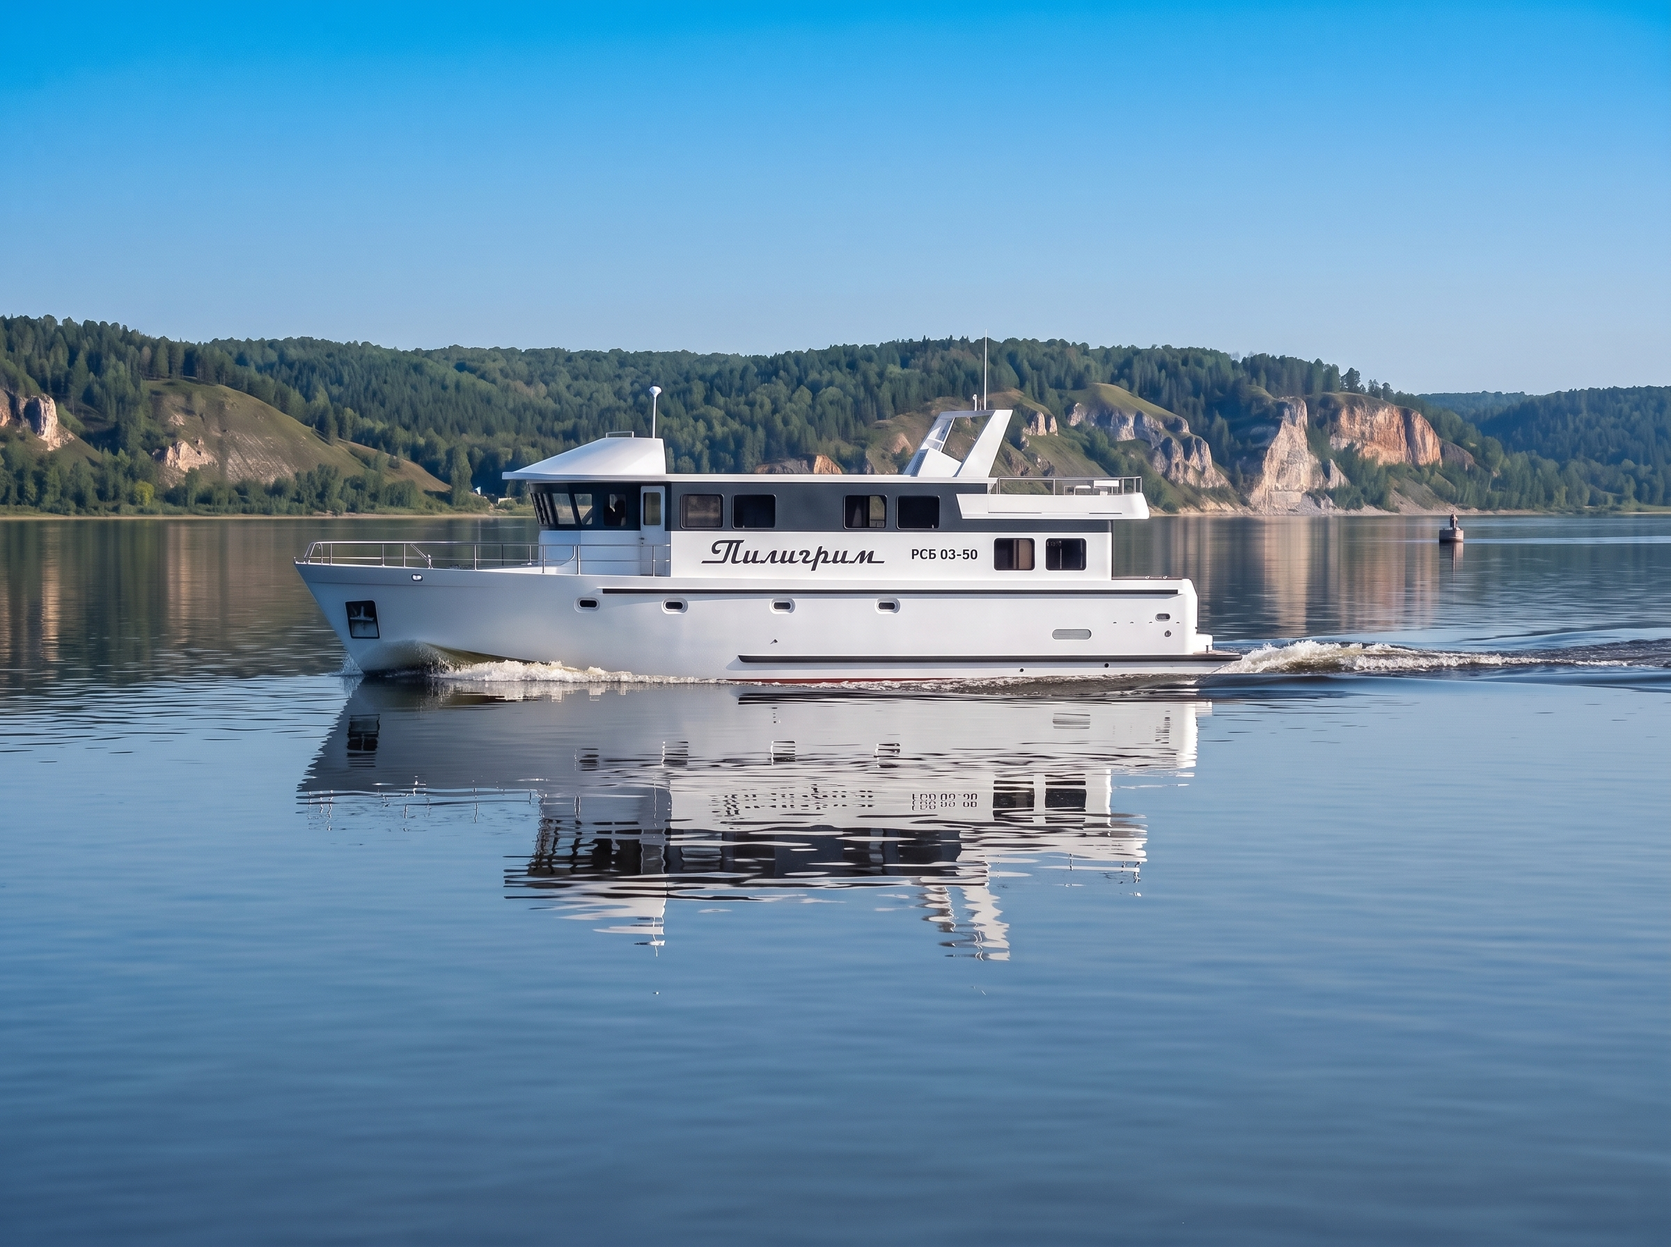
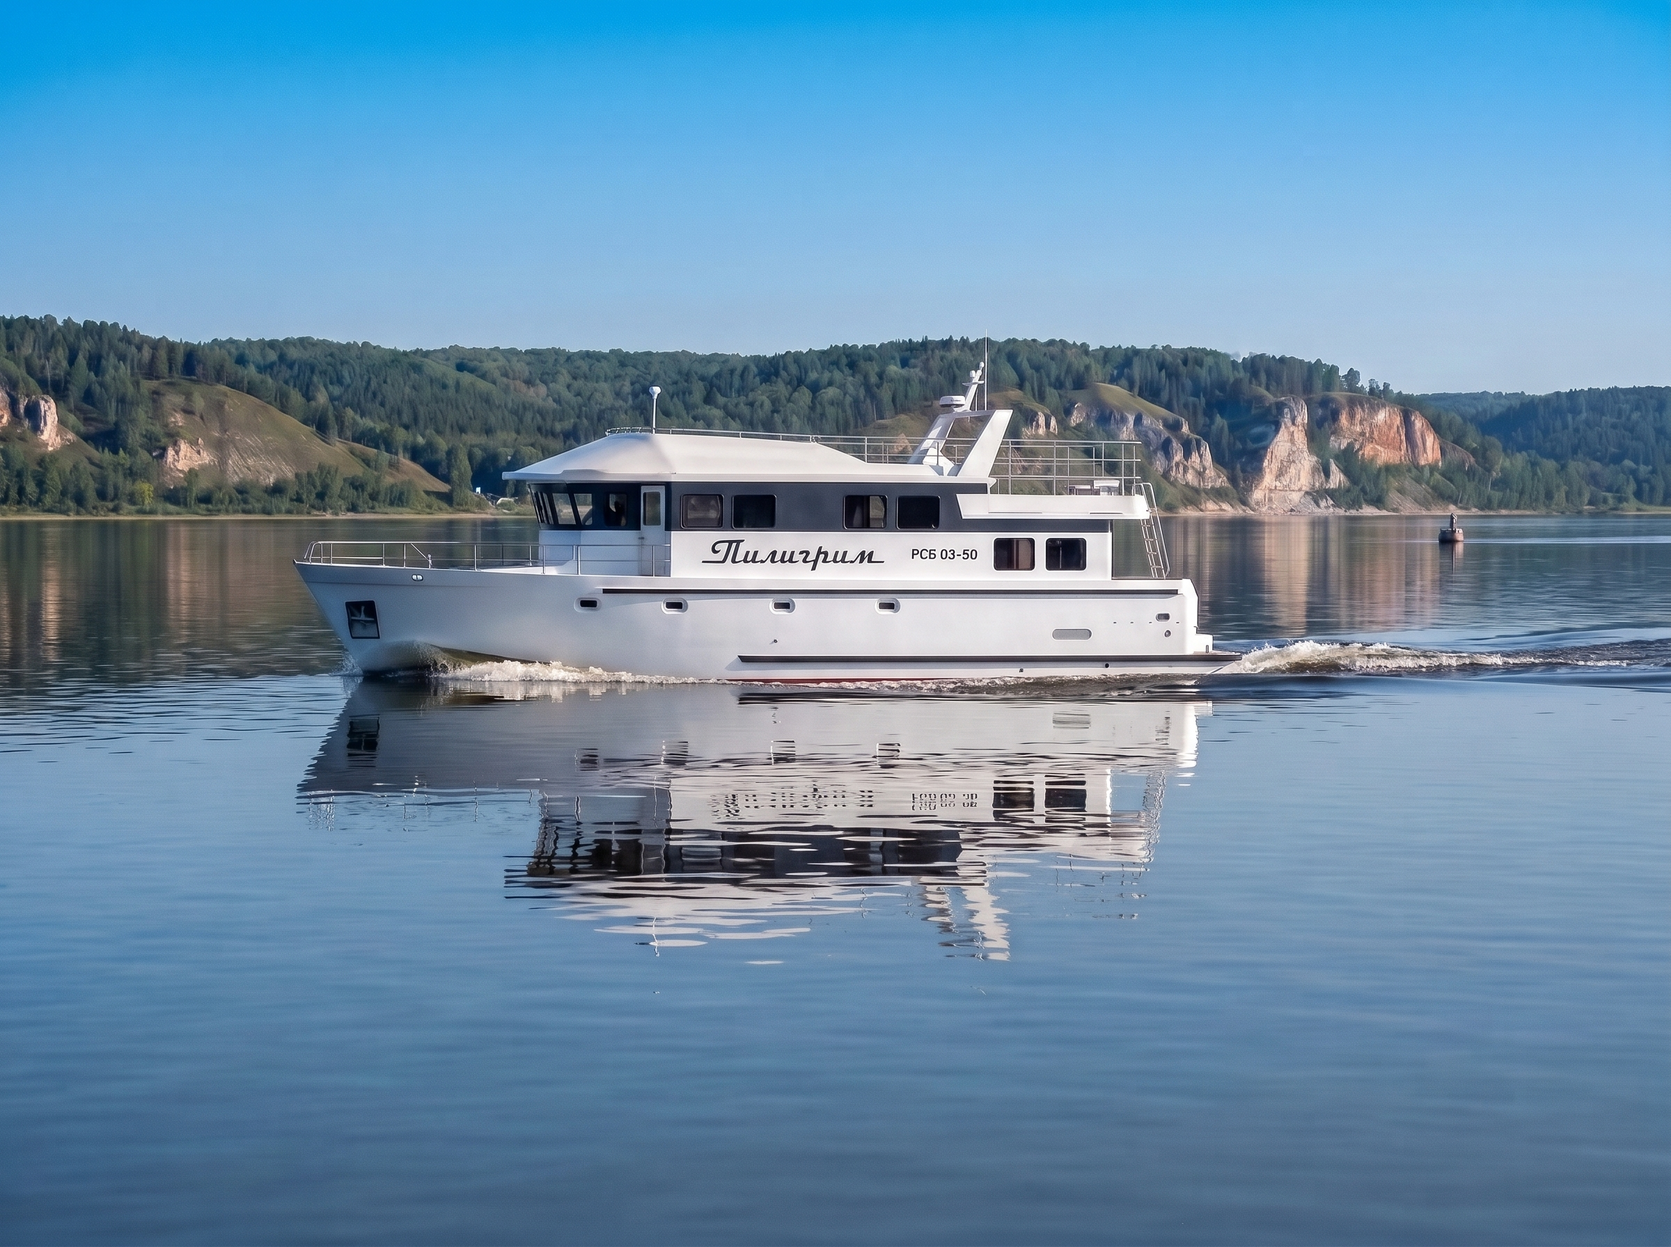
Shipyard: move L-1050/Гулянка №4 specs onto Гулянка №5 (yr 2017, 2-col layout, right section nudged); №4 spec-less + plan sized (boat.js single-plan fix); Пилигрим new hero2

diff --git a/js/boats-data.js b/js/boats-data.js
@@ -760,7 +760,7 @@ const BOATS = [
       ]
     } },
   { id: "piligrim",  family: "korabli", name: "Пилигрим",   status: "sold", year: "2007", img: "pilgrim.jpg?v=3", cardImg: "pilgrim-card.jpg?v=3", tags: ["На заказ"], noInteriors: true, noStory: true,
-    photos: { hero2: "pilgrim-2.jpg?v=2", overview: "pilgrim-overview.jpg", construction: "pilgrim-story.jpg?v=2",
+    photos: { hero2: "pilgrim-2.jpg?v=3", overview: "pilgrim-overview.jpg", construction: "pilgrim-story.jpg?v=2",
       plans: ["pilgrim-plan-side.png?v=2","pilgrim-plan-main.png?v=2","pilgrim-plan-lower.png?v=2"] },
     content: {
       eyebrow: "Круизное моторное судно",
@@ -960,43 +960,14 @@ const BOATS = [
     photos: { hero2: "gulyanka5-2.jpg?v=2", overview: "gulyanka5-overview.jpg", construction: "gulyanka5-story.jpg",
       plans: ["gulyanka5-plan-side.png?v=2"] },
     content: {
+      specsRight: 4,
       eyebrow: "Моторная лодка",
       desc: "Волжская лодка с флайбриджем",
-      heroSpecs: [["Тип","Моторная яхта"],["Палубы","2 + флайбридж"],["Год","2017"]],
+      heroSpecs: [["Длина","12,8 м"],["Мощность","180 л.с."],["Вместимость","10 человек"],["Скорость","20 км/ч"]],
       overviewLead: "Небольшая моторная лодка с застеклённым флайбриджем",
       overviewBody: [
         "Гулянка — <span style=\"font-weight:600\">строго водоизмещающее судно</span>, которое не умеет глиссировать, зато её <span style=\"font-weight:600\">тяжёлый широкий корпус</span> на удивление устойчив, режет волну и <span style=\"font-weight:600\">с малой осадкой</span> проходит по мелководью.",
         "Белый корпус с синим подзором, закрытая рубка-салон и застеклённый флайбридж с жёстким верхом и постом управления. Его крыша продолжается к корме и укрывает полуоткрытую веранду с местами для отдыха у самой воды. На носу просторная палуба с тиковым настилом, а внизу одна просторная каюта."
-      ],
-      storyLead: "Гулянка — волжская лодка для неспешного отдыха",
-      storyBody: [
-        "«Гулянка» — не формальный проект, а <span style=\"font-weight:600\">старый волжский тип лодки</span>. Большие самодельные гулянки появились <span style=\"font-weight:600\">в Поволжье и на Нижнем Дону ещё в советское время</span>, а в Саратове, по преданию, <span style=\"font-weight:600\">с 1970-х начали строить свои</span>, металлические.",
-        "Гулянку строили <span style=\"font-weight:600\">для жизни на реке</span>: рыбалка, охота, дальние прогулки, перевозка людей и груза, доставка отдыхающих с турбаз к берегу. Эта повседневность отражалась и в её <span style=\"font-weight:600\">феноменальной экономичности</span>: на малом ходу они шли весь световой день на считаных литрах и служили десятилетиями.",
-        "Их и сегодня немало на Волге. Открытый кокпит со скамьями, каюта на носу, место для компании: всё для того, чтобы просто выйти на воду и неспешно провести день."
-      ],
-      specs: [
-        ["Тип","Моторная лодка"],["Год постройки","2017"]
-      ],
-      decks: [
-        { name: "вид сбоку", items: [] }
-      ]
-    } },
-  { id: "l-1050",    family: "gulyanki", name: "Гулянка №4",  status: "sold", year: "2015", img: "l1050.jpg?v=2", cardImg: "l1050-card.jpg", tags: ["На заказ"], hideGalleryBtn: true,
-    photos: { hero2: "l1050-2.jpg", overview: "l1050-overview.jpg", construction: "l1050-story.jpg",
-      thumbs: ["l1050-i1.jpg","l1050-i2.jpg","l1050-i3.jpg","l1050-i4.jpg","l1050-i5.jpg","l1050-i6.jpg"],
-      captions: ["Кают-компания","Ходовая рубка","Камбуз","Носовая каюта","Кокпит","Санузел"],
-      gallery: ["l1050-i1.jpg","l1050-2.jpg","l1050-i2.jpg","l1050-i3.jpg","l1050-overview.jpg","l1050-i4.jpg","l1050-i5.jpg","l1050-story.jpg","l1050-i6.jpg"],
-      plans: ["l1050-plan-side.png?v=2"] },
-    content: {
-      specsRight: 4,
-      eyebrow: "Моторная лодка",
-      desc: "Стальная моторная лодка с флайбриджем",
-      heroSpecs: [["Длина","12,8 м"],["Мощность","180 л.с."],["Вместимость","10 человек"],["Скорость","20 км/ч"]],
-      overviewLead: "Компактная гулянка с отдельным местом для поста управления",
-      overviewBody: [
-        "Гулянка — <span style=\"font-weight:600\">строго водоизмещающее судно</span>, которое не умеет глиссировать, зато её <span style=\"font-weight:600\">тяжёлый широкий корпус</span> на удивление устойчив, режет волну и <span style=\"font-weight:600\">с малой осадкой</span> проходит по мелководью.",
-        "Белый верх, тёмный корпус с красным подзором, полностью <span style=\"font-weight:600\">застеклённый флайбридж и открытый кокпит</span>. И на корме, и на носу есть место для загара, рыбалки и посиделок. На флайбридже отдельный пост управления, а внутри <span style=\"font-weight:600\">просторная кают-компания, камбуз и две каюты</span>.",
-        "12,8 метра длины при ширине 3,6 и осадке 0,9, стальной корпус 5-4-3 мм водоизмещением 16 тонн. Два дизеля по 90 л.с. дают крейсерские 16 км/ч и максимум 20. На борту дизель-генератор на 4 кВт, 1,3 тонны топлива и 400 литров пресной воды: хватает на долгие дни вдали от причала."
       ],
       storyLead: "Гулянка — волжская лодка для неспешного отдыха",
       storyBody: [
@@ -1019,13 +990,39 @@ const BOATS = [
         ["Санузлы","2 (один с душем)"],
         ["Мощность","180 л.с."],
         ["Скорость крейсерская","16 км/ч"],
-        ["Год постройки","2015"]
+        ["Год постройки","2017"]
       ],
       fullSpecs: [
         ["Размеры и вместимость", [["Длина габаритная","12,8 м"],["Длина по КВЛ","11,8 м"],["Ширина","3,6 м"],["Осадка","0,9 м"],["Высота борта","1,4 м"],["Водоизмещение","16 т"],["Вместимость","10 человек"],["Каюты","2"],["Санузлы","2 (один с душем)"]]],
         ["Двигатели и ход", [["Двигатели","2 × 90 л.с."],["Мощность","180 л.с."],["Скорость макс.","20 км/ч"],["Скорость крейсерская","16 км/ч"]]],
         ["Запасы и оснащение", [["Дизель-генератор","4 кВт"],["Запас топлива","1,3 т"],["Запас воды","400 л"]]],
-        ["Корпус", [["Материал корпуса","сталь 5-4-3"],["Год постройки","2015"]]]
+        ["Корпус", [["Материал корпуса","сталь 5-4-3"],["Год постройки","2017"]]]
+      ],
+      decks: [
+        { name: "вид сбоку", items: [] }
+      ]
+    } },
+  { id: "l-1050",    family: "gulyanki", name: "Гулянка №4",  status: "sold", year: "2015", img: "l1050.jpg?v=2", cardImg: "l1050-card.jpg", tags: ["На заказ"], hideGalleryBtn: true, noHeroSpecs: true, noSpecs: true,
+    photos: { hero2: "l1050-2.jpg", overview: "l1050-overview.jpg", construction: "l1050-story.jpg",
+      thumbs: ["l1050-i1.jpg","l1050-i2.jpg","l1050-i3.jpg","l1050-i4.jpg","l1050-i5.jpg","l1050-i6.jpg"],
+      captions: ["Кают-компания","Ходовая рубка","Камбуз","Носовая каюта","Кокпит","Санузел"],
+      gallery: ["l1050-i1.jpg","l1050-2.jpg","l1050-i2.jpg","l1050-i3.jpg","l1050-overview.jpg","l1050-i4.jpg","l1050-i5.jpg","l1050-story.jpg","l1050-i6.jpg"],
+      plans: ["l1050-plan-side.png?v=2"] },
+    content: {
+      specsRight: 4,
+      eyebrow: "Моторная лодка",
+      desc: "Стальная моторная лодка с флайбриджем",
+      overviewLead: "Компактная гулянка с отдельным местом для поста управления",
+      overviewBody: [
+        "Гулянка — <span style=\"font-weight:600\">строго водоизмещающее судно</span>, которое не умеет глиссировать, зато её <span style=\"font-weight:600\">тяжёлый широкий корпус</span> на удивление устойчив, режет волну и <span style=\"font-weight:600\">с малой осадкой</span> проходит по мелководью.",
+        "Белый верх, тёмный корпус с красным подзором, полностью <span style=\"font-weight:600\">застеклённый флайбридж и открытый кокпит</span>. И на корме, и на носу есть место для загара, рыбалки и посиделок. На флайбридже отдельный пост управления, а внутри <span style=\"font-weight:600\">просторная кают-компания, камбуз и две каюты</span>.",
+        "12,8 метра длины при ширине 3,6 и осадке 0,9, стальной корпус 5-4-3 мм водоизмещением 16 тонн. Два дизеля по 90 л.с. дают крейсерские 16 км/ч и максимум 20. На борту дизель-генератор на 4 кВт, 1,3 тонны топлива и 400 литров пресной воды: хватает на долгие дни вдали от причала."
+      ],
+      storyLead: "Гулянка — волжская лодка для неспешного отдыха",
+      storyBody: [
+        "«Гулянка» — не формальный проект, а <span style=\"font-weight:600\">старый волжский тип лодки</span>. Большие самодельные гулянки появились <span style=\"font-weight:600\">в Поволжье и на Нижнем Дону ещё в советское время</span>, а в Саратове, по преданию, <span style=\"font-weight:600\">с 1970-х начали строить свои</span>, металлические.",
+        "Гулянку строили <span style=\"font-weight:600\">для жизни на реке</span>: рыбалка, охота, дальние прогулки, перевозка людей и груза, доставка отдыхающих с турбаз к берегу. Эта повседневность отражалась и в её <span style=\"font-weight:600\">феноменальной экономичности</span>: на малом ходу они шли весь световой день на считаных литрах и служили десятилетиями.",
+        "Их и сегодня немало на Волге. Открытый кокпит со скамьями, каюта на носу, место для компании: всё для того, чтобы просто выйти на воду и неспешно провести день."
       ],
       decks: [
         { name: "вид сбоку", items: [] }

diff --git a/css/styles.css b/css/styles.css
@@ -826,13 +826,16 @@ body[data-boat="trex-44cr"] .wf-plan__label{gap:.1rem .5rem;bottom:clamp(.3rem,.
 body[data-boat="trex-37"] .wf-specsheet__right,
 body[data-boat="trex-40"] .wf-specsheet__right,
 body[data-boat="volnyi"] .wf-specsheet__right,
-body[data-boat="l-1050"] .wf-specsheet__right{align-content:start}
+body[data-boat="l-1050"] .wf-specsheet__right,
+body[data-boat="gulyanka-1"] .wf-specsheet__right{align-content:start}
+body[data-boat="gulyanka-1"] .wf-specsheet__right{margin-top:15px}
 body[data-boat="trex-37"] .wf-gallery__col--left > .wf-gallery__pair{order:-1}
 .wf-spectable--underplan{margin-top:clamp(4rem,7vw,6rem)}
 body[data-boat="volnyi"] .wf-spectable--underplan{margin-top:clamp(2rem,4vw,3rem)}
 body[data-boat="piligrim"] .wf-spectable--underplan{margin-top:clamp(2rem,4vw,55px)}
 body[data-boat="l-1050"] .wf-plans{margin-top:15px}
 body[data-boat="l-1050"] .wf-spectable--underplan{margin-top:clamp(2rem,5.7vw,35px)}
+body[data-boat="gulyanka-1"] .wf-spectable--underplan{margin-top:clamp(1.5rem,4vw,32px)}
 
 /* ============================================================
    ABOUT PAGE — low-fi wireframe

diff --git a/js/boat.js b/js/boat.js
@@ -465,9 +465,12 @@
       plans.style.flexDirection = "row";
       plans.style.alignItems = "flex-start";
       plans.style.width = "100%";
+      // a lone plan shouldn't stretch the full width — cap it so it reads at a
+      // normal plan-box size; multiple plans still share the row equally.
+      const single = plans.querySelectorAll(".wf-plans__img").length === 1;
       plans.querySelectorAll(".wf-plans__img").forEach((b) => {
         const wrap = document.createElement("div");
-        wrap.style.cssText = "flex:1 1 0;min-width:0";
+        wrap.style.cssText = single ? "flex:0 0 auto;width:560px;max-width:100%;min-width:0" : "flex:1 1 0;min-width:0";
         b.parentNode.insertBefore(wrap, b);
         wrap.appendChild(b);
         b.style.width = "100%";

diff --git a/boat.html b/boat.html
@@ -8,7 +8,7 @@
 <link rel="preconnect" href="https://fonts.googleapis.com">
 <link rel="preconnect" href="https://fonts.gstatic.com" crossorigin>
 <link href="https://fonts.googleapis.com/css2?family=IBM+Plex+Serif:wght@400;500;600&family=Manrope:wght@400;500;600;700&display=swap" rel="stylesheet">
-<link rel="stylesheet" href="css/styles.css?v=298">
+<link rel="stylesheet" href="css/styles.css?v=313">
 </head>
 <body>
 
@@ -271,8 +271,8 @@
     </div>
   </footer>
 
-  <script src="js/boats-data.js?v=656"></script>
-  <script src="js/boat.js?v=79"></script>
+  <script src="js/boats-data.js?v=657"></script>
+  <script src="js/boat.js?v=81"></script>
   <script src="js/contact-modal.js?v=3"></script>
   <script src="js/booklet-modal.js?v=3"></script>
 </body>

diff --git a/js/gallery.js b/js/gallery.js
@@ -129,7 +129,7 @@
       "volnyi.jpg", "volnyi-2.jpg", "volnyi-overview.jpg", "volnyi-story.jpg",
       "yeti.jpg", "yeti-2.jpg", "yeti-overview.jpg", "yeti-story.jpg", "yeti-e1.jpg",
       "yul.jpg", "yul-2.jpg", "yul-overview.jpg", "yul-story.jpg",
-      "pilgrim.jpg", "pilgrim-2.jpg", "pilgrim-overview.jpg", "pilgrim-story.jpg",
+      "pilgrim.jpg", "pilgrim-2.jpg?v=3", "pilgrim-overview.jpg", "pilgrim-story.jpg",
       "laita.jpg", "laita-2.jpg", "laita-overview.jpg", "laita-story.jpg",
       "dundukovsky.jpg", "dundukovsky-2.jpg", "dundukovsky-3.jpg", "dundukovsky-4.jpg", "dundukovsky-5.jpg", "dundukovsky-6.jpg", "dundukovsky-7.jpg", "dundukovsky-8.jpg",
       "mara.jpg", "mara-2.jpg", "mara-overview.jpg", "mara-story.jpg",

diff --git a/gallery.html b/gallery.html
@@ -169,7 +169,7 @@
     </div>
   </footer>
 
-  <script src="js/gallery.js?v=32"></script>
+  <script src="js/gallery.js?v=33"></script>
   <script src="js/contact-modal.js?v=3"></script>
 
 </body>
